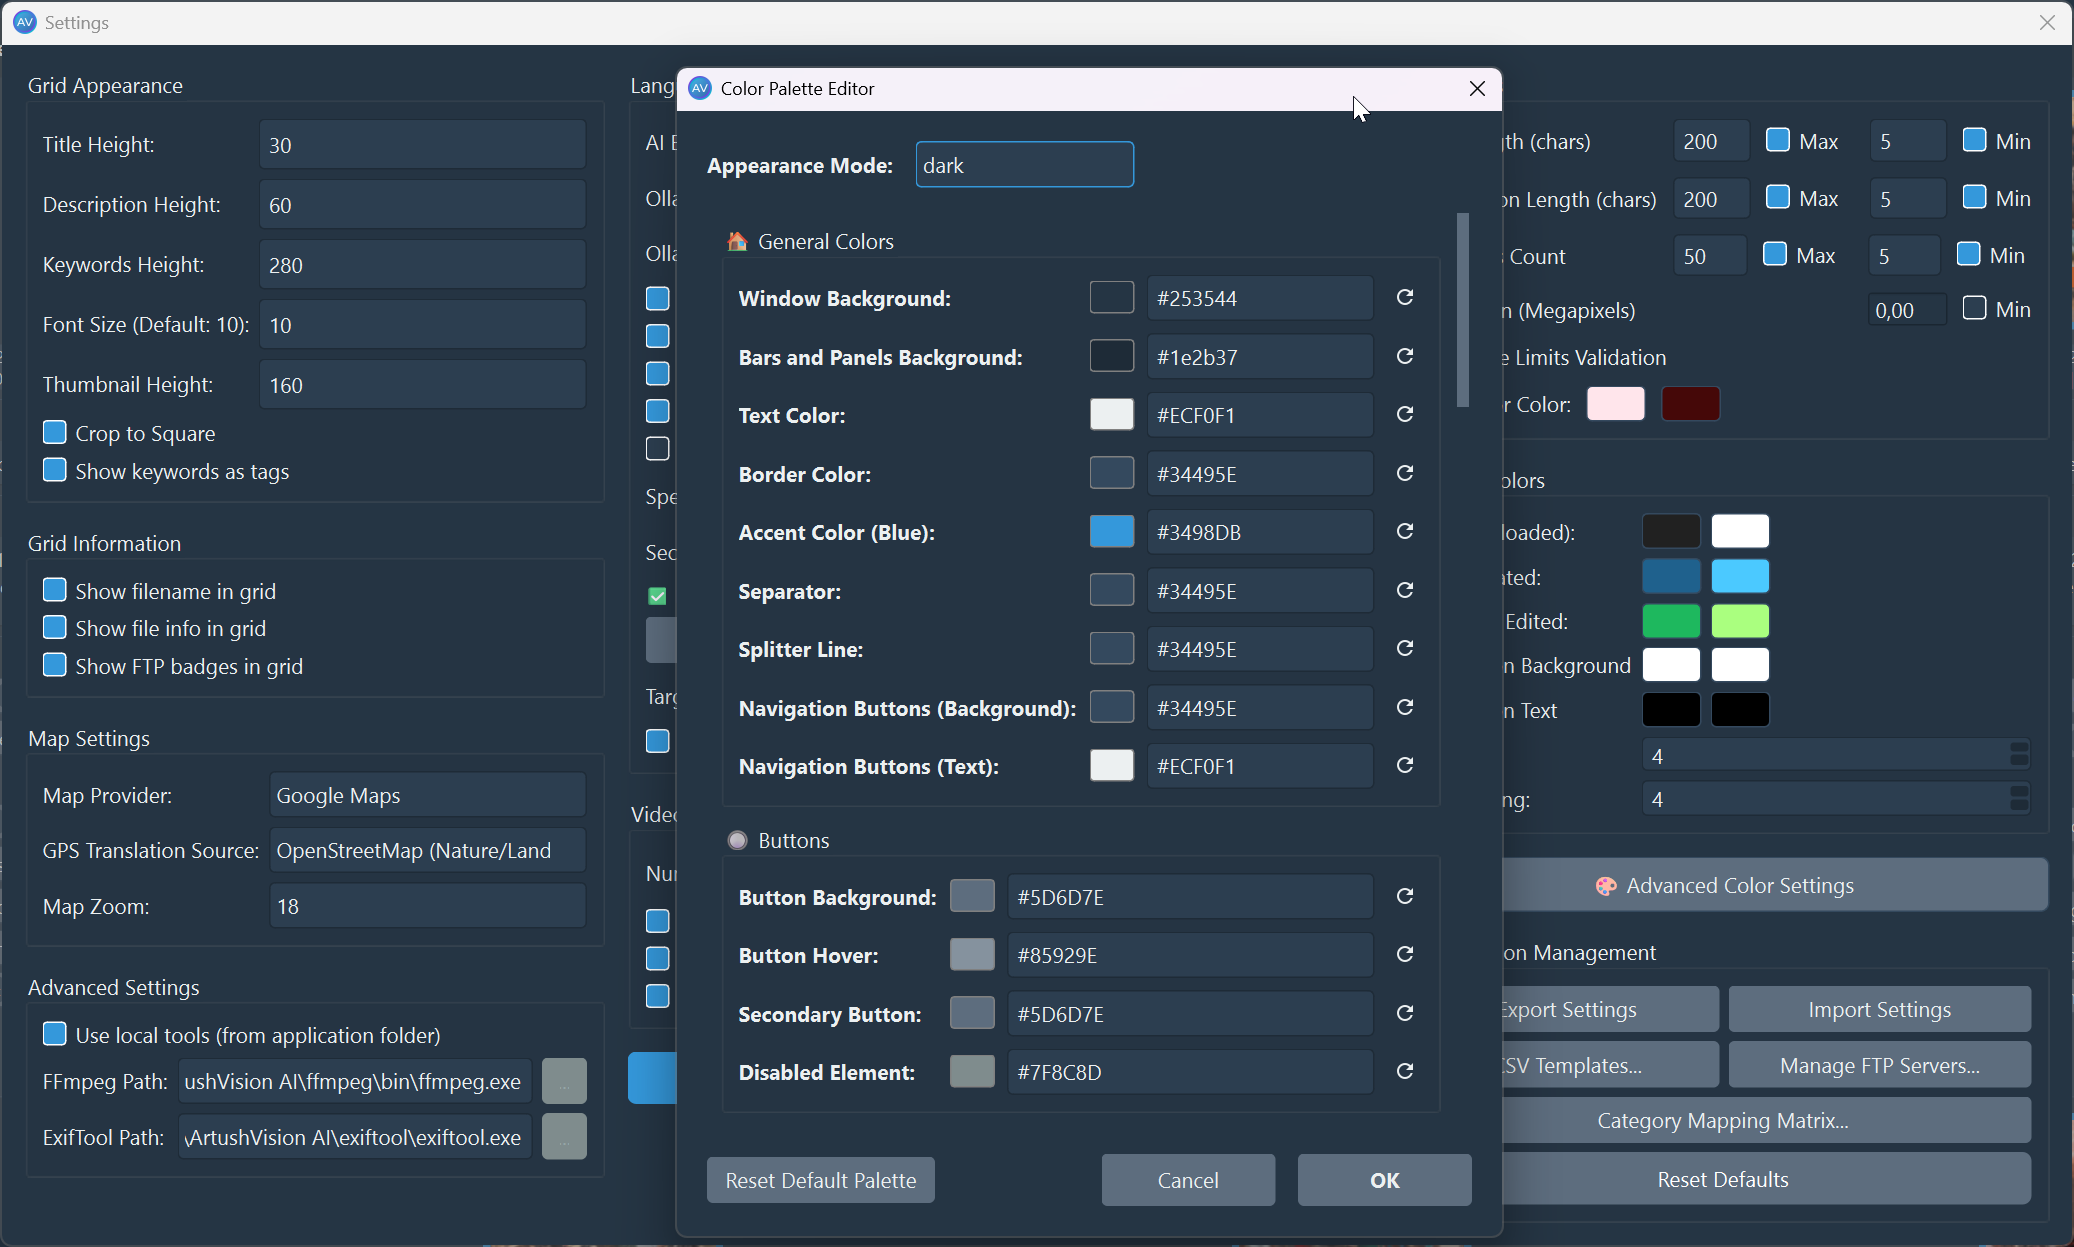
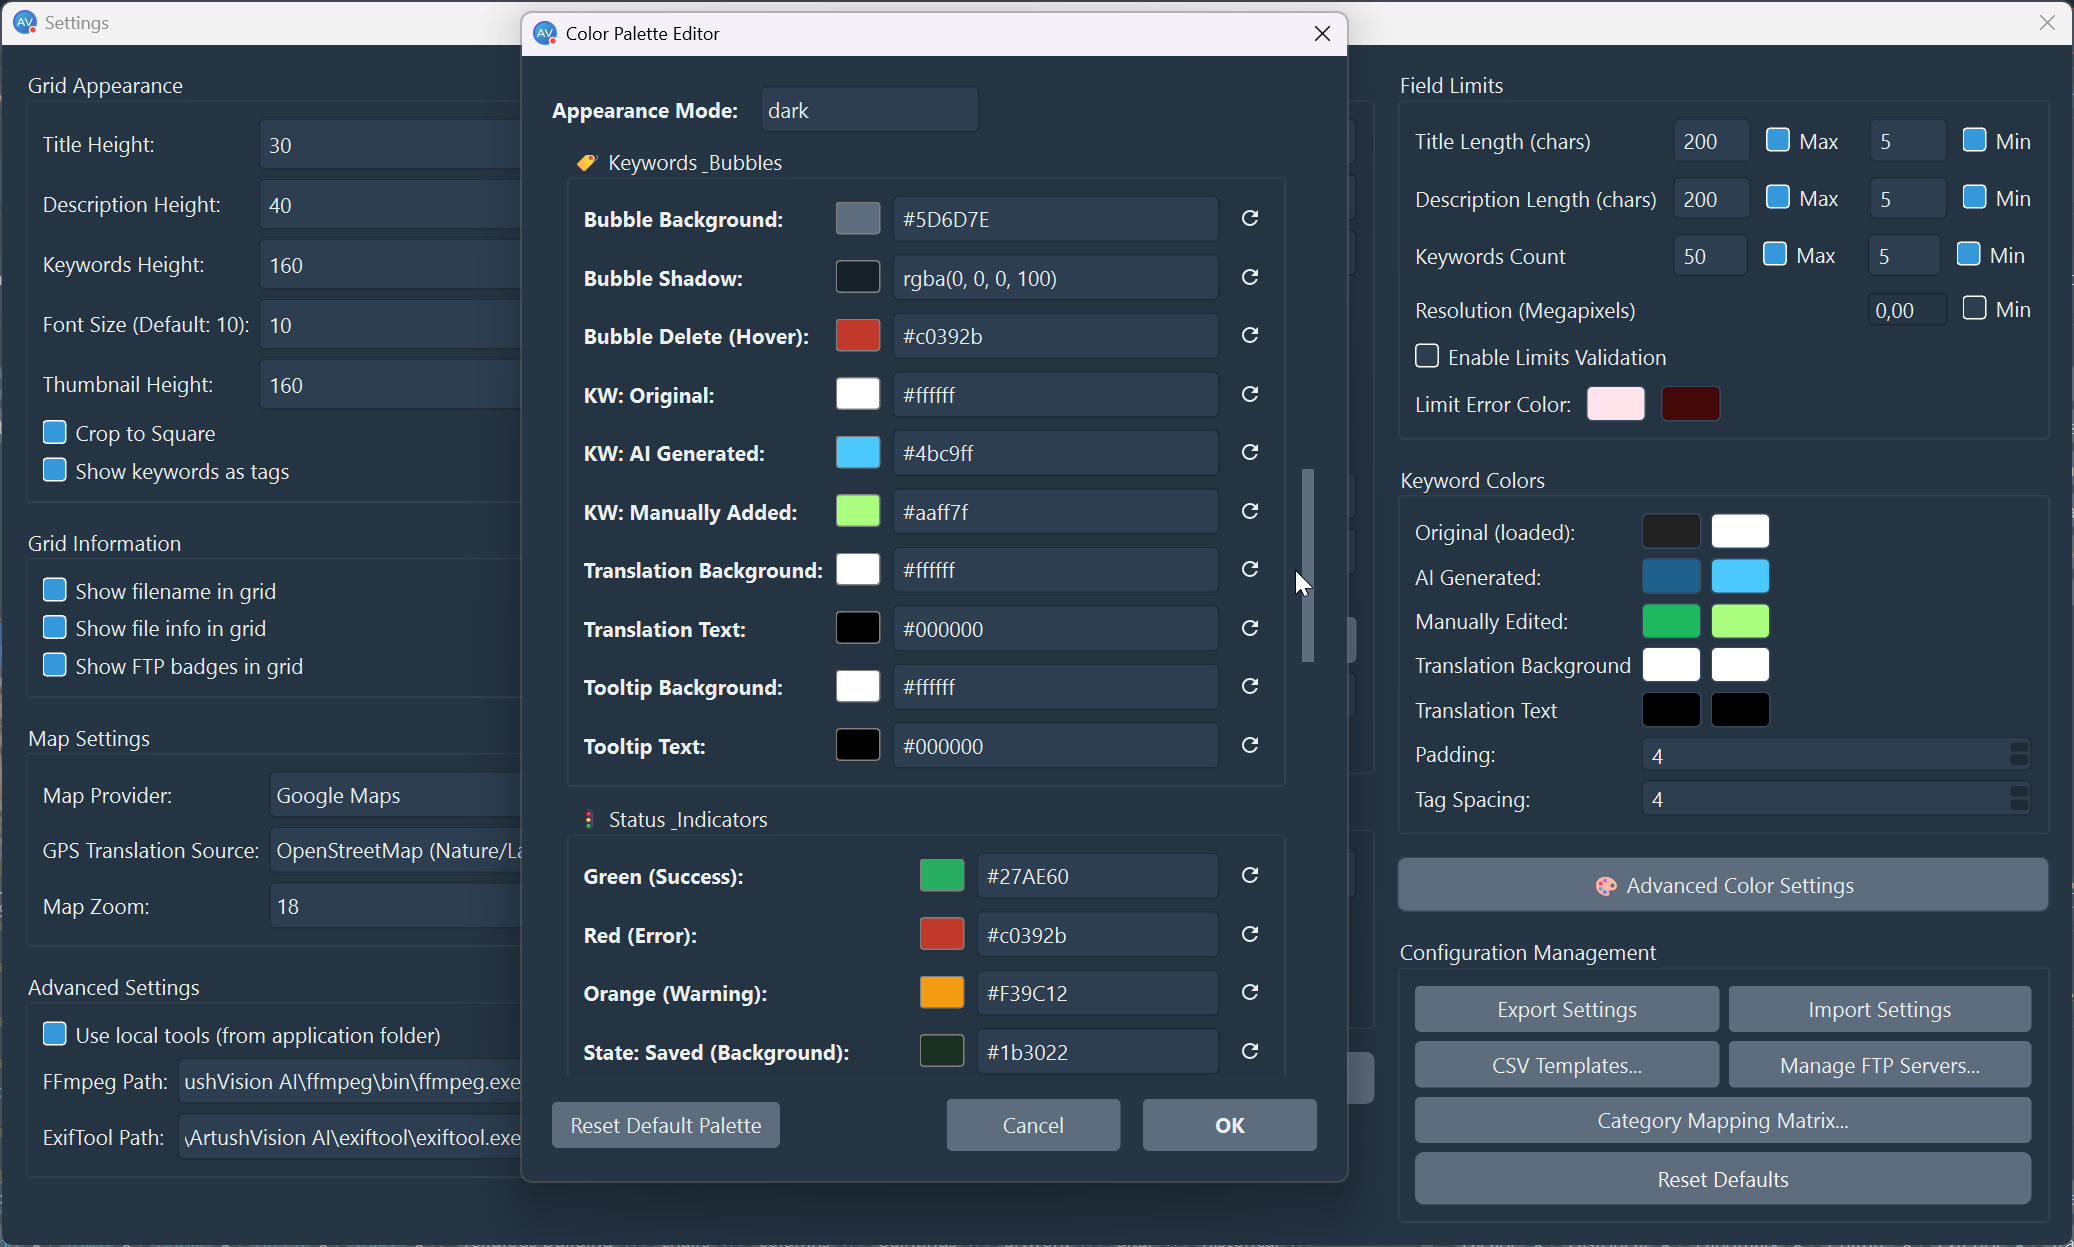
update

diff --git a/docs/settings-configuration-customization.md b/docs/settings-configuration-customization.md
@@ -163,6 +163,10 @@ A comfortable workspace is essential for long editing sessions. ArtushVision AI 
 * **Typography and Layout:** Customize global font sizes and the height of metadata fields. This is particularly useful for managing long descriptions or extensive keyword lists.
 * **Theme and Visibility:** Toggle specific UI elements to reduce clutter and focus strictly on the metadata fields you use most frequently.
 
+<a href="https://raw.githubusercontent.com/Artushfoto/ArtushVision-AI/main/docs/images/settings.png" target="_blank" class="screenshot-link">
+  <img src="https://raw.githubusercontent.com/Artushfoto/ArtushVision-AI/main/docs/images/settings.png" alt="ArtushVision AI - Batch Edit Toolbar" width="100%" class="screenshot-img">
+</a>
+
 ---
 
 ## AI and Video Tuning
@@ -172,6 +176,10 @@ Fine-tune how the AI engine interacts with your media, especially when dealing w
 * **Video Frame Logic:** Set the number of keyframes (3 to 20) the internal FFmpeg engine extracts for analysis. More frames provide more context but increase processing time.
 * **Economy Mode (Collage) Configuration:** Enable or disable the automatic stitching of video frames into collages to optimize <a href="/docs/ai-metadata-generation-cloud-local-ollama.html#4-tier-ai-engine-choose-your-processing-path">Cloud AI</a> token usage and reduce costs.
 * **Model Context Limits:** Define the VRAM limits for <a href="/docs/local-ai-model-manager-ollama.html">local Ollama models</a> to ensure the application remains stable based on your specific GPU hardware.
+
+<a href="https://raw.githubusercontent.com/Artushfoto/ArtushVision-AI/main/docs/images/video-analysis-economy-mode.png" target="_blank" class="screenshot-link">
+  <img src="https://raw.githubusercontent.com/Artushfoto/ArtushVision-AI/main/docs/images/video-analysis-economy-mode.png" alt="ArtushVision AI - Batch Edit Toolbar" width="40%" class="screenshot-img">
+</a>
 
 ---
 
@@ -184,6 +192,10 @@ Ensure your metadata is flawless and quickly entered with advanced linguistic to
 * **Hover Translation:** Select a target language to instantly translate AI-generated or existing keywords simply by hovering your mouse over them.
 * **Diacritics Control:** Choose whether the AI should output text with or without diacritics (accents), ensuring compatibility with stock agencies that have strict character formatting rules.
 
+<a href="https://raw.githubusercontent.com/Artushfoto/ArtushVision-AI/main/docs/images/language-spell-synonyms.png" target="_blank" class="screenshot-link">
+  <img src="https://raw.githubusercontent.com/Artushfoto/ArtushVision-AI/main/docs/images/language-spell-synonyms.png" alt="ArtushVision AI - Batch Edit Toolbar" width="100%" class="screenshot-img">
+</a>
+
 ---
 
 ## Advanced CSV Template Editor
@@ -194,7 +206,9 @@ The CSV Editor is a powerful tool for reverse-engineering agency requirements or
 * **Custom Headers:** Define specific header names required by niche stock agencies or private archives.
 * **Export Presets:** Save your mappings as presets that can be instantly assigned to different FTP servers in the <a href="/docs/global-stock-distribution-ftp.html">Distribution module</a>.
 
-[IMAGE: A close-up of the CSV Editor tab showing the column mapping interface and the Load Template button.]
+<a href="https://raw.githubusercontent.com/Artushfoto/ArtushVision-AI/main/docs/images/csv-template-editor.png" target="_blank" class="screenshot-link">
+  <img src="https://raw.githubusercontent.com/Artushfoto/ArtushVision-AI/main/docs/images/csv-template-editor.png" alt="ArtushVision AI - Batch Edit Toolbar" width="100%" class="screenshot-img">
+</a>
 
 ---
 
@@ -206,6 +220,11 @@ The [Category Matrix](#the-category-matrix) is the translation engine of ArtushV
 * **Media Type Logic:** Apply different category rules for Photo and Video assets, ensuring each media type is funneled into the correct commercial bin.
 * **Master Category Definition:** Create your own set of Master Categories that serve as the source for all agency-specific translations.
 
+<a href="https://raw.githubusercontent.com/Artushfoto/ArtushVision-AI/main/docs/images/category-matrix.png" target="_blank" class="screenshot-link">
+  <img src="https://raw.githubusercontent.com/Artushfoto/ArtushVision-AI/main/docs/images/category-matrix.png" alt="ArtushVision AI - Batch Edit Toolbar" width="100%" class="screenshot-img">
+</a>
+
+
 ---
 
 ## Maps and Reverse Geocoding
@@ -216,7 +235,9 @@ Accurate location data is critical for editorial and travel photography. ArtushV
 * **Reverse Geocoding Logic:** The application automatically translates GPS coordinates into readable City, State, and Country names. This text is then fed to the AI to provide geographical context for keyword generation.
 * **Language Preferences:** Set the preferred language for location names to ensure consistency in your metadata.
 
-[IMAGE: A screenshot of the Maps configuration tab showing the API provider selection and the geocoding toggle.]
+<a href="https://raw.githubusercontent.com/Artushfoto/ArtushVision-AI/main/docs/images/maps-and-reverse-geocoding.png" target="_blank" class="screenshot-link">
+  <img src="https://raw.githubusercontent.com/Artushfoto/ArtushVision-AI/main/docs/images/maps-and-reverse-geocoding.png" alt="ArtushVision AI - Batch Edit Toolbar" width="100%" class="screenshot-img">
+</a>
 
 ---
 
@@ -227,6 +248,10 @@ Personalize your workspace for maximum visual comfort during long editing sessio
 * **Keyword Color Coding:** Assign custom colors to instantly distinguish between Original (loaded from file), AI-Generated, and Manually Edited keywords directly in the grid.
 * **Interface Colors:** Freely adjust the colors of application backgrounds, input fields, buttons, and grid elements to reduce eye strain.
 * **Validation Alerts:** Set specific error highlight colors that will instantly alert you whenever strict agency limits (such as maximum title length or keyword count) are exceeded.
+
+<a href="https://raw.githubusercontent.com/Artushfoto/ArtushVision-AI/main/docs/images/advanced-color-settings.png" target="_blank" class="screenshot-link">
+  <img src="https://raw.githubusercontent.com/Artushfoto/ArtushVision-AI/main/docs/images/advanced-color-settings.png" alt="ArtushVision AI - Batch Edit Toolbar" width="100%" class="screenshot-img">
+</a>
 
 ---
 